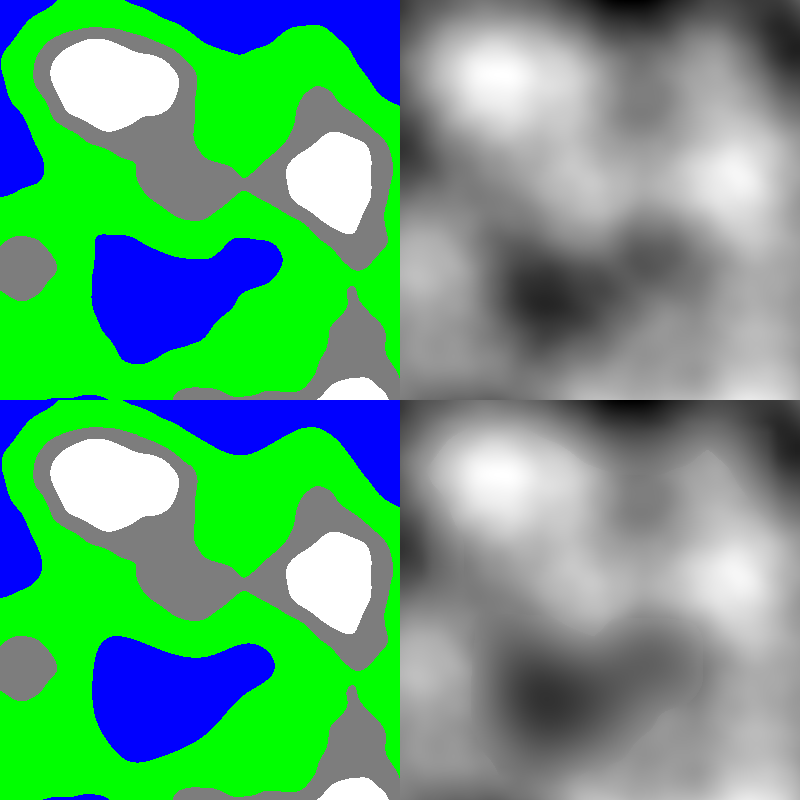
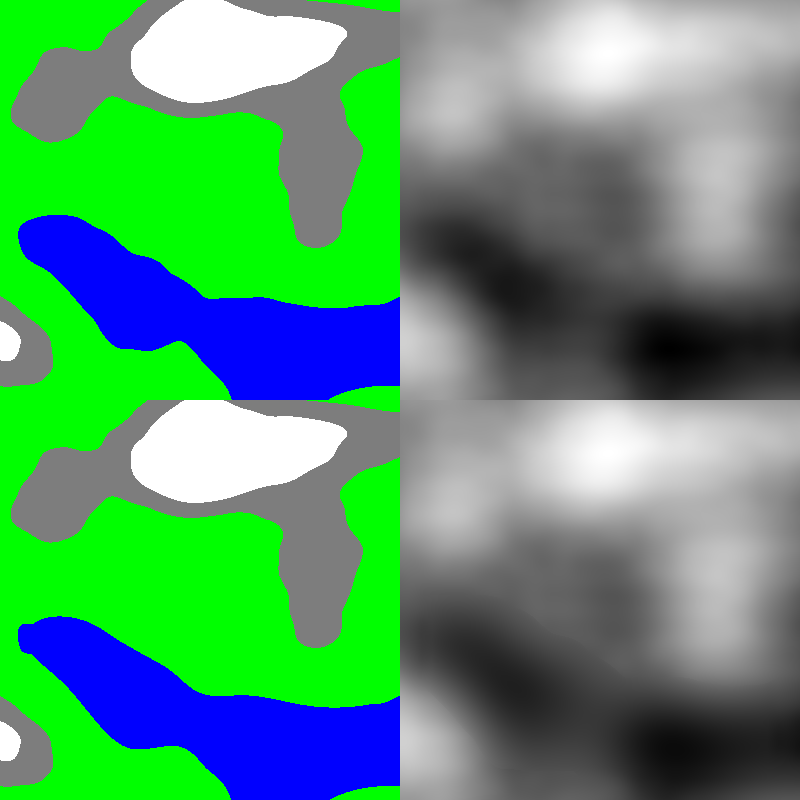
Mask class

diff --git a/terrain/terraingen.py b/terrain/terraingen.py
@@ -9,18 +9,6 @@ global function_stats
 function_stats = dict()
 
 
-def GaussianKernel(size=11):
-    arr = np.zeros((size, size))
-    padding = size // 2
-    for ind, row in enumerate(arr):
-        for cind, col in enumerate(row):
-            distance = np.abs(padding - ind) + np.abs(padding - cind)
-            distance = distance
-
-            arr[ind, cind] = (2 * size - distance)
-    return arr
-
-
 def timeit(fun):
     def wrapper(*args, **kwargs):
         global function_stats
@@ -39,6 +27,79 @@ def timeit(fun):
     return wrapper
 
 
+@timeit
+def GaussianKernel(size=11):
+    arr = np.zeros((size, size))
+    padding = size // 2
+    for ind, row in enumerate(arr):
+        for cind, col in enumerate(row):
+            distance = np.abs(padding - ind) + np.abs(padding - cind)
+            distance = distance
+
+            arr[ind, cind] = (2 * size - distance)
+    return arr
+
+
+class Mask:
+    def __init__(self, width, height, mask=None):
+        self.width = width
+        self.height = height
+
+        if type(mask) is set:
+            self.mask_pixels = mask
+        elif mask is None:
+            self.mask_pixels = set()
+        else:
+            raise NotImplemented("Accepting only set of [row, col] pixes")
+
+        # elif type(mask) is list or type(mask) is np.ndarray:
+        #     self.mask_array = mask
+        #     self.mask_pixels = self.get_mask_array()
+
+    @timeit
+    def get_mask_array(self):
+        mask = np.zeros((self.width, self.height, 1))
+        for row, col in self.mask_pixels:
+            mask[row, col, 0] = 1
+        return mask
+
+    @timeit
+    def expand(self, dist=5):
+        new_mask_array = np.zeros((self.width, self.height, 1))
+        for rindex, cindex in self.mask_pixels:
+            rstart = rindex - dist
+            rstop = rindex + dist + 1
+            if rstart < 0:
+                rstart = 0
+
+            if rstop > self.height - 1:
+                rstop = self.height - 1
+
+            cstart = cindex - dist
+            cstop = cindex + dist + 1
+
+            if cstart < 0:
+                cstart = 0
+
+            if cstop > self.width - 1:
+                cstop = self.width - 1
+
+            # np.ones((rstop - rstart, cstop - cstart))
+            new_mask_array[rstart:rstop, cstart:cstop] = 255
+            # for ia in range(rstart, rstop):
+            #     for ib in range(cstart, cstop):
+            #         if (ia, ib) not in new_mask:
+            #             new_mask.add((ia, ib))
+
+        # self.mask_pixels = new_mask
+
+        return new_mask_array
+
+    @staticmethod
+    def dilate(mask):
+        cv2.dilate()
+
+
 class TerrainGen:
     def __init__(self, width=1500, height=1500):
         self.width = width
@@ -49,7 +110,7 @@ class TerrainGen:
         self.components = dict()
         self.terrain = self.create_blank()
 
-    def create_blank(self, value=0, chanels=1):
+    def create_blank(self, value=0.0, chanels=1):
         blank = np.zeros((self.width, self.height, chanels)) + value
         return blank
 
@@ -123,42 +184,17 @@ class TerrainGen:
         Returns:
         2d np.array
         """
-        mask = self.create_blank(chanels=1)
+        mask = set()
         for rindex, row in enumerate(rgb_map):
             for cindex, (blue, green, red) in enumerate(row):
                 if blue >= 10 and (red <= 10 or green <= 10):
-                    mask[rindex, cindex, 0] = 255
-        mask = self.expand_mask(mask, 20)
-        new_terrain = self.apply_filter(terrain, GaussianKernel(55), mask)
-        new_terrain = self.apply_filter(new_terrain, GaussianKernel(11), mask)
+                    mask.add((rindex, cindex))
+
+        mask_ob = Mask(self.width, self.height, mask)
+        mask_arr = mask_ob.expand(20)
+        new_terrain = self.apply_filter(terrain, GaussianKernel(55), mask_arr)
+        new_terrain = self.apply_filter(new_terrain, GaussianKernel(11), mask_arr)
         return new_terrain
-
-    @timeit
-    def expand_mask(self, mask, dist=5):
-        new_mask = mask.copy()
-        for rindex, row in enumerate(mask):
-            for cindex, val in enumerate(row):
-                if val < 1:
-                    continue
-                else:
-                    rstart = rindex - dist
-                    rstop = rindex + dist + 1
-                    if rstart < 0:
-                        rstart = 0
-
-                    if rindex > self.height - 1:
-                        rstop = self.height - 1
-
-                    cstart = cindex - dist
-                    cstop = cindex + dist + 1
-                    if cstart < 0:
-                        cstart = 0
-
-                    if cindex > self.width - 1:
-                        cstop = self.width - 1
-
-                new_mask[rstart:rstop, cstart:cstop] = 255
-        return new_mask
 
     @timeit
     def apply_filter(self, terrain, kernel, mask=None):
@@ -195,8 +231,8 @@ class TerrainGen:
                     application[rindex, cindex, 1] = 255
                     val = (scrap * kernel).sum() / factor
                 output[rindex, cindex, 0] = val
-        self.components['application'] = application
 
+        self.components['application'] = application
         return output
 
     @timeit
@@ -333,7 +369,9 @@ if __name__ == "__main__":
     g1.create_perlin(step_size=0.008)
     g1.save()
     tend = time.time()
-    for key, records in function_stats.items():
-        print(f"{key:<25} average: {np.mean(records):>4.4f} s")
 
-    print(f"{tend - t0:>4.1f} s")
+    for key, records in function_stats.items():
+        print(f"{key:<25} average: {len(records):>3}x {np.mean(records):>4.4f}s \t"
+              f"sum: {np.sum(records):>4.2f}s")
+
+    print(f"Whole program took: {tend - t0:>4.1f} s")
